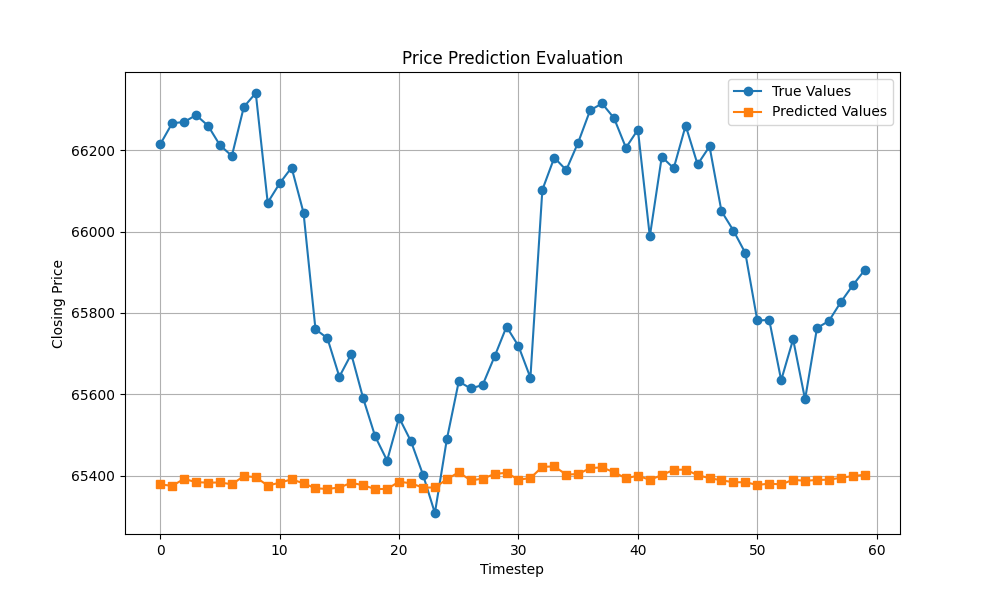
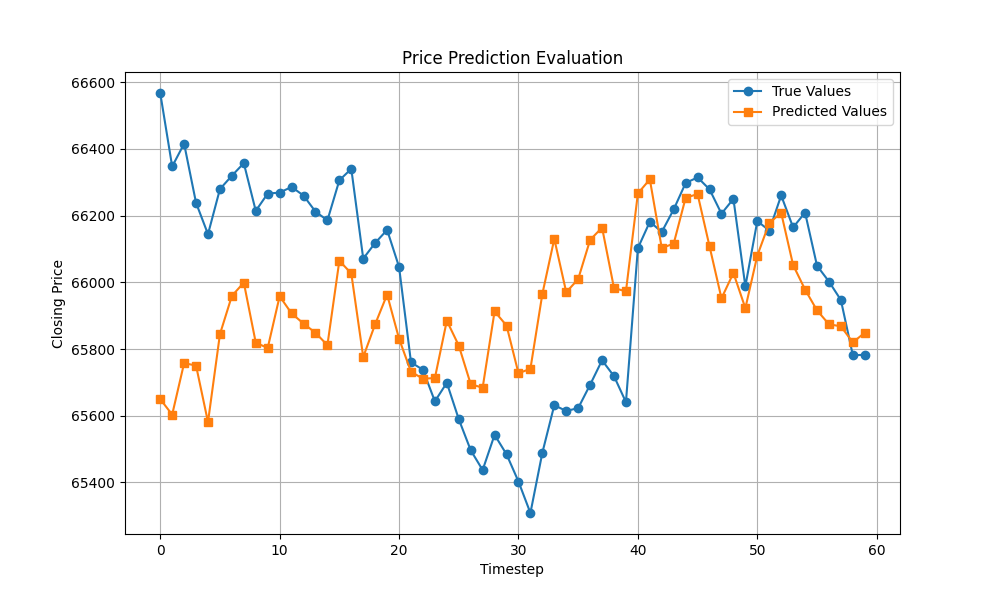
better model: 0.2%

diff --git a/analytics/technical_analysis.py b/analytics/technical_analysis.py
@@ -6,6 +6,8 @@ import pandas
 import numpy
 from keras.models import Sequential, model_from_json
 from keras.layers import Input, ConvLSTM1D, Dense, Dropout, RepeatVector, Reshape, MaxPooling2D, LeakyReLU
+from keras.optimizers import Adam
+from keras.losses import Huber
 from sklearn.model_selection import train_test_split
 from sklearn.preprocessing import MinMaxScaler
 from matplotlib import pyplot
@@ -70,10 +72,9 @@ class DeepLearning():
         self.model.add(Input(shape=(self.train_data.shape[1], self.train_data.shape[2], 1))) # Input shape of (<sample_size/observations>=None, <time_steps>, <features>, <channel>=1). sample_size=none allows for flexible sample size. 1 as time series is only on 1 channel
         # self.model.add(Reshape((self.train_data.shape[1], self.train_data.shape[2], 1, 1))) # Add channel dimension, new shape is (<sample_size>, <time_steps>, <features>, <channel>=1). 1 as time series is only on 1 channel
     
-        self.model.add(Dense(64, activation='relu'))
+        self.model.add(Dense(64, activation='linear'))
         self.model.add(Reshape((self.train_data.shape[1], self.train_data.shape[2], 64)))  # Reshape to match ConvLSTM1D input shape
 
-        # To maintain shape, either kernel size 1 or
         self.model.add(ConvLSTM1D(filters=100, kernel_size=20, padding='same', activation='tanh', return_sequences=True))
 
         # self.model.add(ConvLSTM1D(filters=50, kernel_size=20, padding='same', activation='tanh', return_sequences=True))
@@ -81,10 +82,10 @@ class DeepLearning():
         self.model.add(MaxPooling2D(pool_size=(1, 10)))
         self.model.add(Dropout(0.8))
 
-        self.model.add(Dense(64, activation='relu'))
+        self.model.add(Dense(64, activation='linear'))
         self.model.add(Dense(1, activation='linear'))
 
-        self.model.compile(optimizer='adam', loss='mae')
+        self.model.compile(optimizer=Adam(learning_rate=0.001), loss=Huber())
         self.model.summary() 
         # Saving model configurations to json
         with open(self.model_dir, 'w') as json_file:
@@ -105,8 +106,8 @@ class DeepLearning():
         test_prediction_denormalised = self.prediction_denormalisation(test_prediction)
         evaluation_result = pandas.DataFrame({'True Values': pandas.Series(test_predictor_denormalised), 'Predicted Values': pandas.Series(test_prediction_denormalised), 'Loss Evaluation': pandas.Series(self.loss_evaluation)})       
         evaluation_result.to_csv(self.performance_dir)
-        _logger.info(f"Model Performance -\n Loss Eval: {self.loss_evaluation}\n")
         print(evaluation_result)
+        _logger.info(f"Model Performance -\n Loss Eval: {round((self.loss_evaluation * 100), 4)}%\n")
         self.plot_evaluation(evaluation_result)
 
     def plot_evaluation(self, dataframe):
